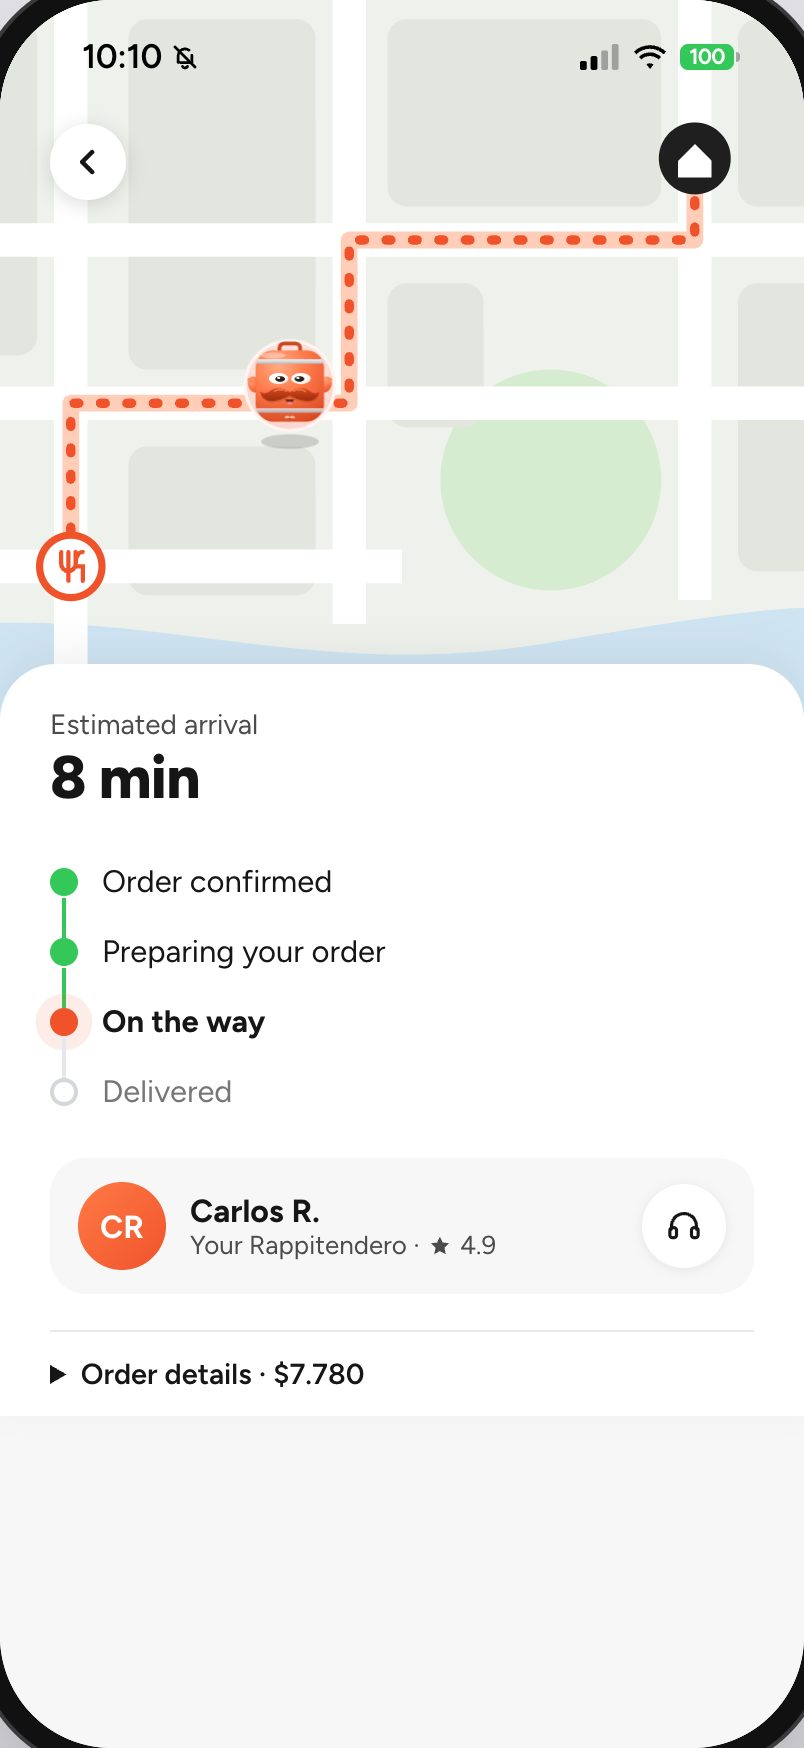
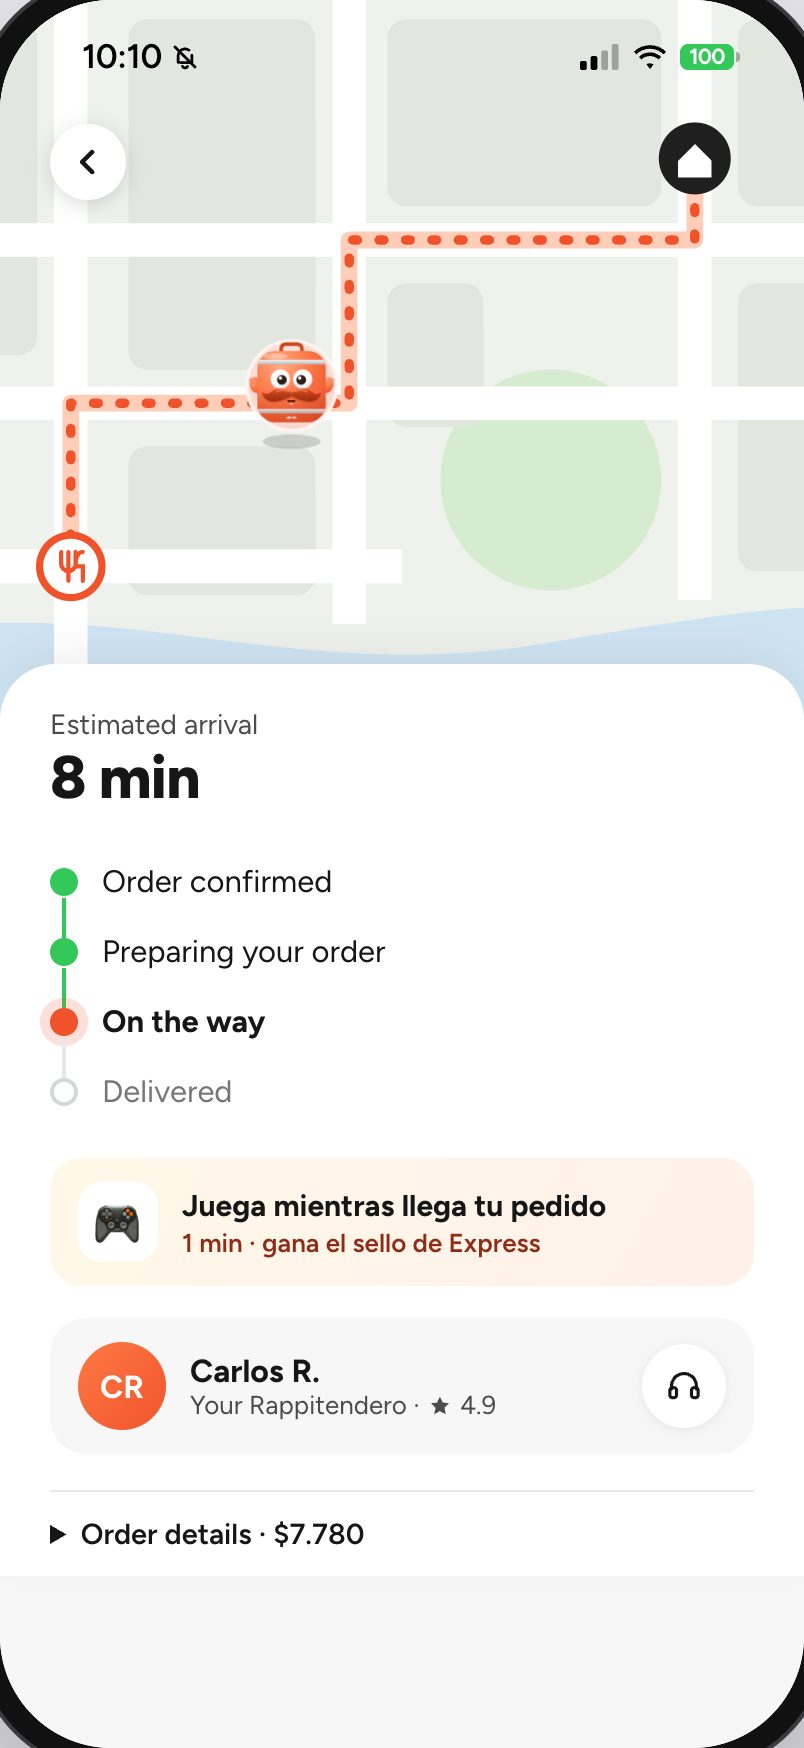
docs(juego): textos, capturas y guion con el juego en el prototipo
README del prototipo con la sección «Juego de verticales» (pasaporte único,
entradas, ronda mientras llega el pedido, Farmacia, datos), README raíz, guion de
demo con su paso opcional y la decisión del 09-10. Capturas nuevas del camino del
juego y de la ronda con la franja del pedido; el script de capturas recorre ambos.

diff --git a/prototipo-app/README.md b/prototipo-app/README.md
@@ -69,7 +69,22 @@ El interruptor junto al teléfono (tecla **D**, o Account → Modo demo en el ce
 | <img src="docs/screenshots/02-home-rappi-hoy.jpg" width="300" alt="Home de Rappi hoy"> | <img src="docs/screenshots/01-home-final.jpg" width="300" alt="Home del prototipo final con Bigotes"> |
 | Buscador original | Bigotes vive en la Home y la misma barra abre su buscador |
 
-En el **prototipo final** Bigotes de cuerpo entero vive en la Home (`src/screens/home/live/`), sin ícono de chat. Al entrar saluda; no sugiere productos ni reordena la Home. La Home suma un pasaporte de verticales (bajo los accesos de siempre), «¿Qué plan tienes hoy?» (un kit de varias verticales) y, al tocar a Bigotes, una vertical por probar. Bigotes saluda al llegar, salta, apunta y gira según lo que dice, y en espera mira alrededor, baila o se estira; sin nada que decir se asoma desde el borde y al hacer scroll se esconde, para no tapar la Home. Lo que se agrega al carro fuera de la Home lo comenta al volver (no hay aviso flotante). La barra de la Home y la lupa de abajo abren el buscador con Bigotes (ver más abajo), y al entregar un pedido ofrece armar el próximo. En el celular, «Repetir escena de Bigotes» está en Account. «↺ Repetir escena», junto al interruptor, vuelve a empezar. Respeta «reducir movimiento» del sistema.
+En el **prototipo final** Bigotes de cuerpo entero vive en la Home (`src/screens/home/live/`), sin ícono de chat. Al entrar saluda; no sugiere productos ni reordena la Home. La Home suma el pasaporte del juego de verticales (bajo los accesos de siempre; ver «Juego de verticales»), «¿Qué plan tienes hoy?» (un kit de varias verticales) y, al tocar a Bigotes, una vertical por probar. Bigotes saluda al llegar, salta, apunta y gira según lo que dice, y en espera mira alrededor, baila o se estira; sin nada que decir se asoma desde el borde y al hacer scroll se esconde, para no tapar la Home. Lo que se agrega al carro fuera de la Home lo comenta al volver (no hay aviso flotante). La barra de la Home y la lupa de abajo abren el buscador con Bigotes (ver más abajo), y al entregar un pedido ofrece armar el próximo. En el celular, «Repetir escena de Bigotes» está en Account. «↺ Repetir escena», junto al interruptor, vuelve a empezar. Respeta «reducir movimiento» del sistema.
+
+## Juego de verticales
+
+En el prototipo final, el **pasaporte Rappi** de la Home es el del juego de verticales (traído de `rappi-juego-verticales`, que queda como histórico): 8 sellos (Súper, Express, Turbo, Licores, Chocolatería, Restaurantes, Farmacia y Rappi Mall), uno por vertical en nivel Explorador o más. Un sello se gana jugando (descubrir un concepto) o abriendo la vertical en la app; Conocedor y Experto, solo jugando, y se ven en el borde del sello. Con 4 sellos, envío gratis en la demo.
+
+- **Desde la Home:** el título del pasaporte abre el pasaporte del juego; «Jugar», su camino de verticales; cada sello, su hoja con «Jugar» y «Abrir {vertical}». Bigotes, al tocarlo, propone jugar la primera vertical sin sello.
+- **Mientras llega el pedido:** el seguimiento ofrece «Juega mientras llega tu pedido», una ronda de 5 pasos en una vertical sin sello. Arriba, una franja con el tiempo que falta; si el pedido llega a mitad de ronda, avisa con «Ver pedido».
+- **El juego:** rondas (conceptos que se dan vuelta y desafíos de 4 opciones), XP y nivel, misión del día y racha, y un álbum de cartas «¿Sabías que…?». Los datos son agregados del catálogo del 05-10-2026 (`src/data/verticales.json`, sin conceptos sensibles; `npm run datos -- "<04 Mapa multivertical.html>"` los regenera).
+- **Farmacia** se puede jugar desde el pasaporte, pero ni Bigotes ni el seguimiento la proponen (la salud no se empuja). Licores lleva la marca «+18».
+- El progreso es de demo: se guarda solo en el navegador. «Repetir escena» lo deja como al empezar.
+
+| El juego | Mientras llega el pedido |
+|:---:|:---:|
+| <img src="docs/screenshots/31-juego-camino.jpg" width="240" alt="Camino de verticales del juego"> | <img src="docs/screenshots/32-juego-espera.jpg" width="240" alt="Ronda con la franja del pedido"> |
+| Camino de verticales, misión del día y nivel | La ronda muestra cuánto falta para el pedido |
 
 ## Lo nuevo de la propuesta
 
@@ -110,7 +125,7 @@ En la Home esa tarea la hace Bigotes de cuerpo entero (ver «Modo demo»): ya no
 | Checkout | Seguimiento | Entregado |
 |:---:|:---:|:---:|
 | <img src="docs/screenshots/25-checkout.jpg" width="240" alt="Checkout"> | <img src="docs/screenshots/26-seguimiento.jpg" width="240" alt="Seguimiento"> | <img src="docs/screenshots/27-entregado.jpg" width="240" alt="Pedido entregado"> |
-| Delivery o retiro, propina y desglose (envío gratis con Pro). El medio de pago es un texto de ejemplo. | Simulado: los pasos avanzan solos y Bigotes recorre la ruta en el mapa. | Calificación y la siguiente sugerencia cruzada. |
+| Delivery o retiro, propina y desglose (envío gratis con Pro). El medio de pago es un texto de ejemplo. | Simulado: los pasos avanzan solos y Bigotes recorre la ruta en el mapa; se puede jugar mientras llega. | Calificación y la siguiente sugerencia cruzada. |
 
 También:
 
@@ -143,7 +158,7 @@ Además: Pharmacy, Retail, Express, Pet, Chocolates, Loyalty, buscador, página 
 
 - **Real:** las pantallas (recortes de las capturas), los precios y productos que se ven en ellas, los menús del scraper (si se exportan), el carrito, los pedidos y el historial del navegador.
   - **Con la API** también son reales: la búsqueda y los productos y precios que muestra Bigotes.
-- **Simulado:** el pago y el seguimiento.
+- **Simulado:** el pago y el seguimiento (el pedido «llega» a los 20 s), y el progreso del juego (solo en el navegador).
   - **Sin la API** también son simuladas las respuestas de Bigotes (reglas sobre los datos del prototipo).
 - **Privacidad:** el id de usuario es seudónimo (`proto-…`, guardado en este navegador). El carro, los favoritos, la dirección, Loyalty y los pedidos también se guardan solo en este navegador. "Olvidar" borra lo aprendido también en la API. En modo "Rappi hoy" no se aprende.
 - **Supuestos:** textos cortados en el borde de las capturas, algunos ratings y tiempos de entrega; están marcados como "supuesto" en los archivos `data.js`.
@@ -155,10 +170,11 @@ src/
 ├── api/            Cliente de la API de rappi-ia (chat, "Para ti", pedidos); si no responde, modo local
 ├── assistant/      Bigotes local: temas, respuestas y recomendaciones (lógica pura, con tests)
 ├── assets/         Recortes de las capturas
+├── game/           Lógica del juego de verticales: desafíos, cartas, XP, niveles, pasaporte (lógica pura, con tests)
 ├── components/     Piezas compartidas; assistant/ tiene la mascota, la barra de la Home, el buscador con Bigotes y Descubre
-├── data/           Catálogo y buscador; menús reales opcionales
+├── data/           Catálogo y buscador; menús reales opcionales; verticales.json del juego
 ├── hooks/          Navegación con historial, scroll
-├── screens/        Una carpeta por pantalla (home, deals, vertical, checkout, tracking…)
+├── screens/        Una carpeta por pantalla (home, deals, vertical, checkout, tracking, game…)
 ├── state/          Carrito, perfil, pedidos, hoja de producto, modo demo, dirección… (varios persisten en localStorage)
 └── styles/         Tokens de diseño y estilos globales
 design/bigotes.html Ficha del personaje

diff --git a/docs/decisiones.md b/docs/decisiones.md
@@ -130,6 +130,7 @@
 | 09-10-2026 | La **«Propuesta»** deja de tener chat escrito, voz, foto e ícono de Bigotes arriba a la derecha: la barra de la Home abre un **buscador con Bigotes** (lo aprendido con «Olvidar», ideas para tocar, búsqueda de tiendas y productos, «Recent searches» y «Popular stores» como en la app, y «Descubre con Bigotes» con las verticales por explorar). `/chat/voice` y `/chat/photo` siguen en la API sin cambios. Junto con eso, el prototipo gana fidelidad: pila de pantallas con estado (volver desde una tienda reabre la búsqueda donde estaba), hoja de producto, «Mis pedidos», Turbo con productos, carro y favoritos persistentes, imágenes con respaldo, pantalla de error por sección y carga diferida por pantalla (índice de 404 a 311 kB). Textos nuevos en español; lo copiado de la app queda en inglés tal cual, sin mezclar idiomas en un mismo bloque. | En las pruebas la gente tomaba el ícono de Bigotes por un canal de soporte y no escribía: la personalización tiene que vivir en lo que ya usan (el buscador). La fidelidad evita que la demo se rompa en el detalle (volver, recargar, una imagen que no carga) y que eso tape la propuesta. |
 | 09-10-2026 | Los modos **«Propuesta»** y **«Bigotes vivo»** se juntan en uno solo, **«Prototipo final»**, junto a «Rappi hoy» («para hoy»). La Home es la de Bigotes de cuerpo entero (pasaporte, planes, bloque del interés) y la barra de la Home y la lupa abren el **buscador con Bigotes**. Salen de la Home la fila «Para ti» y el aviso emergente al agregar al carro (Bigotes comenta lo agregado al volver, como en «Bigotes vivo»); siguen «Para ti, de otras tiendas» en cada vertical y la oferta de armar el próximo pedido al entregar. Quien tenía guardado un modo viejo entra al prototipo final. | Eran dos respuestas a la misma pregunta (cómo vive Bigotes en la app) y mostrar las dos por separado obligaba a explicar cuál era la propuesta. Un solo prototipo final contra lo de hoy se entiende sin guion. Sin «Para ti» en la Home y sin aviso, Bigotes no habla dos veces. |
 | 09-10-2026 | En el prototipo final, Bigotes **ya no sugiere productos en la Home**: salen «Tu rincón de…» (el bloque que subía al primer lugar, con «Deshacer») y «Nuevo para ti: …», y con ellos la pregunta «¿Te los traigo arriba?», el reordenamiento y el fondo oscuro. Bigotes entra y saluda; el pasaporte de verticales sigue justo bajo los accesos, y siguen «¿Qué plan tienes hoy?», el comentario al volver del carro y la vertical por probar al tocarlo. | Pedido tras ver el prototipo: las sugerencias de productos en la Home sobraban. Sin la escena, la Home queda usable desde el primer segundo (antes la barra quedaba bloqueada mientras la Home estaba oscura). |
+| 09-10-2026 | El **juego de verticales** entra al prototipo final y su pasaporte **es** el pasaporte Rappi: 8 sellos (las verticales del juego: sale Mascotas, entra Farmacia), sello = nivel Explorador (jugando o abriendo la vertical en la app), envío gratis con 4. Se entra desde el pasaporte de la Home y desde Bigotes, y el seguimiento ofrece una ronda mientras llega el pedido. Farmacia se juega pero nunca se propone. El código se copió de `rappi-juego-verticales` (queda como histórico) con su CSS bajo `.game`. | Gamificación: aprovechar la espera del pedido y dar al pasaporte algo que hacer más allá de abrir verticales. Un solo pasaporte evita explicar dos sistemas de sellos. Ver la [especificación](superpowers/specs/2026-10-09-juego-en-prototipo-design.md). |
 
 ## Datos simulados y panel
 

diff --git a/docs/demo.md b/docs/demo.md
@@ -43,9 +43,15 @@ Es lo primero que se ve en el prototipo final. Para partir de cero: **↺ Repeti
 
 1. Bigotes entra caminando a la Home y saluda. No sugiere productos ni mueve la Home: la Home es la de siempre, con el pasaporte de verticales justo bajo los accesos. **Qué decir:** Bigotes es parte de la Home, no un canal aparte.
 2. Baja hasta «¿Qué plan tienes hoy?» y elige **Carrete**: un kit de tres verticales con un solo botón.
-3. Toca a Bigotes: propone una vertical que falta en el pasaporte. Ábrela y vuelve: celebra el sello.
+3. Toca a Bigotes: propone jugar una vertical que falta en el pasaporte. Con «Abrir» la sellas al entrar y, al volver, lo celebra.
 
 El pasaporte y su envío gratis son una idea para probar con usuarios, no una promoción real.
+
+### Juego de verticales (2 minutos, opcional)
+
+1. En el pasaporte de la Home, toca **Jugar**: el camino de las 8 verticales con la misión del día. Juega una ronda (5 pasos: conceptos que se dan vuelta y desafíos de 4 opciones). **Qué decir:** el catálogo y el grafo de conceptos sirven para que la persona conozca verticales que no usa, jugando y sin que se le pida comprar.
+2. Haz un pedido y, en el seguimiento, toca **«Juega mientras llega tu pedido»**: la ronda muestra arriba cuánto falta y avisa cuando llega (en la demo, a los 20 s). **Qué decir:** la espera se aprovecha para descubrir otra vertical y suma un sello.
+3. Vuelve a la Home: el sello nuevo está en el pasaporte.
 
 ## Qué aclarar si preguntan
 

diff --git a/README.md b/README.md
@@ -162,7 +162,7 @@ cd prototipo-app && npm ci && npm run dev       # http://localhost:5174
 cd dashboard-empresa && npm ci && npm run dev   # http://localhost:5175
 ```
 
-- **Prototipo:** la tecla **D** (o Account → Settings → Modo demo en el celular) alterna «Prototipo final» (Bigotes vive en la Home, con un pasaporte de verticales; la barra abre el buscador con Bigotes: lo aprendido con «Olvidar», ideas para tocar, búsqueda de tiendas y productos y «Descubre con Bigotes»; sin chat escrito, voz ni foto) y «Rappi hoy» (la app como es hoy). Sin la API, Bigotes responde con reglas locales sobre los datos de las capturas y lo marca con «Respuesta local».
+- **Prototipo:** la tecla **D** (o Account → Settings → Modo demo en el celular) alterna «Prototipo final» (Bigotes vive en la Home, con el pasaporte del juego de verticales, que también se ofrece mientras llega el pedido; la barra abre el buscador con Bigotes: lo aprendido con «Olvidar», ideas para tocar, búsqueda de tiendas y productos y «Descubre con Bigotes»; sin chat escrito, voz ni foto) y «Rappi hoy» (la app como es hoy). Sin la API, Bigotes responde con reglas locales sobre los datos de las capturas y lo marca con «Respuesta local».
 - **Panel:** sin la API usa respuestas guardadas (`src/fixtures/`) y lo avisa («Modo sin conexión (datos guardados)»). Cada bloque indica si su dato es simulado o real.
 
 ### Correr la demo completa (catálogo real)
